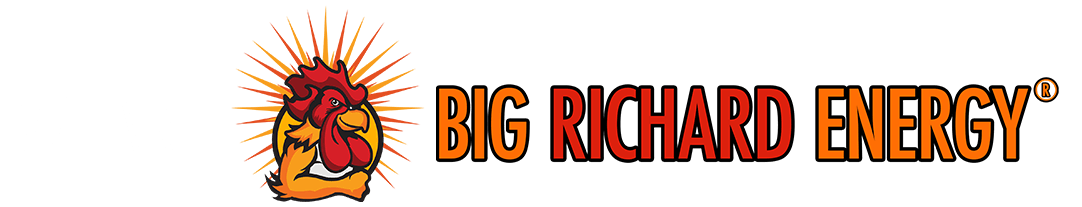
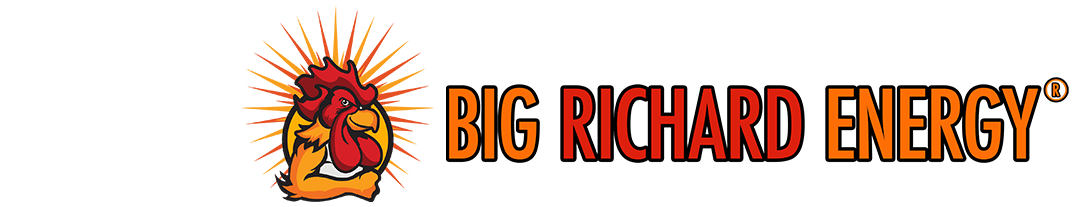
make final updates for mobile cleanup

Changed region(s): [[0.2135, 0.058, 1.0, 0.9855]]

diff --git a/assets/custom-landing-page.css b/assets/custom-landing-page.css
@@ -1073,10 +1073,10 @@ footer.section-wrapper .section {
   }
 
   .rooster-icon {
-    width: 60px;
-    height: 60px;
-    top: -40px;
-    background-size: 50px 50px;
+    width: 95px;
+    height: 95px;
+    top: -60px;
+    background-size: 95px 95px;
   }
 
   .testimonial-card {
